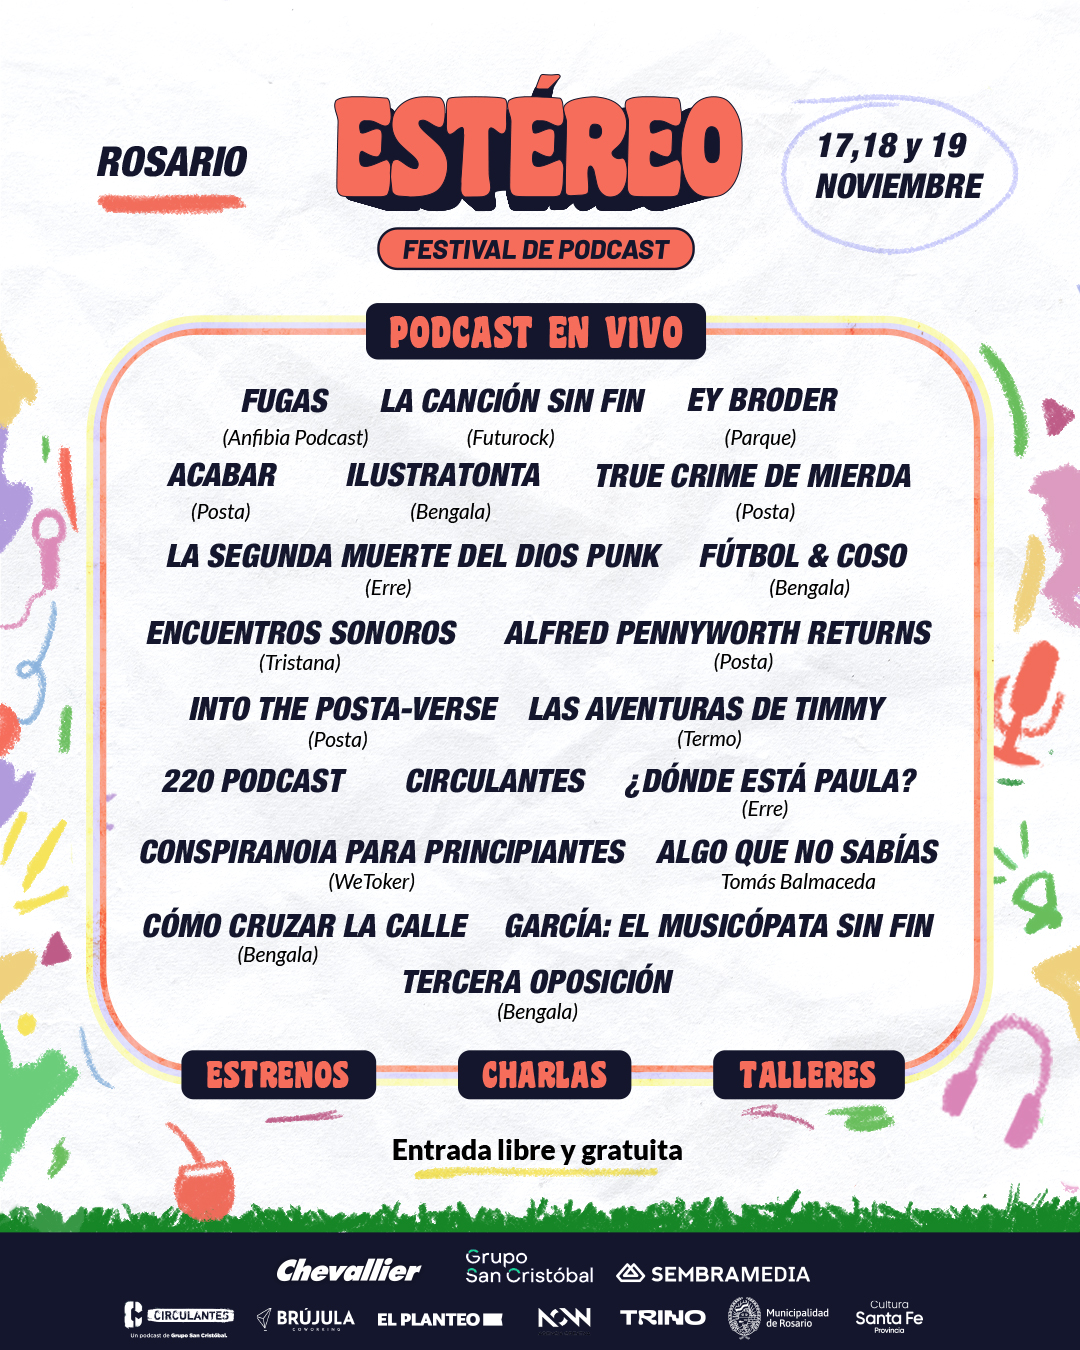
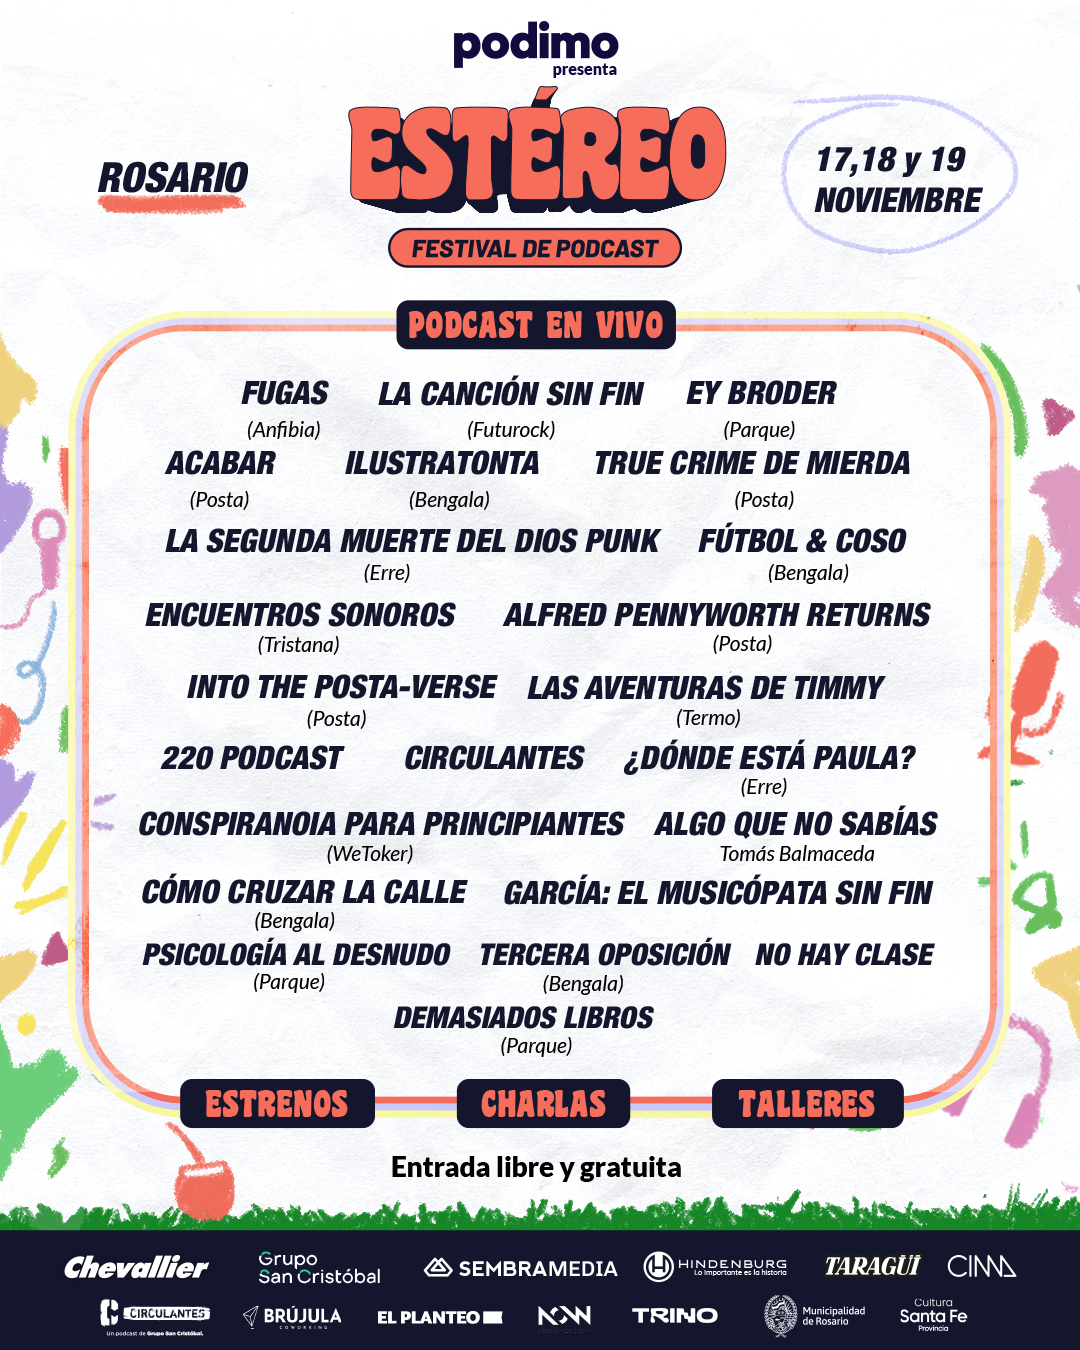
podimo included

diff --git a/index.html b/index.html
@@ -66,10 +66,14 @@
     </div>
   </nav>
   <main>
-    <section id="main-img" class="container-fluid pb-2 pb-md-0 text-center">
+    <section id="main-img" class="container-fluid pb-0 text-center">
       <div class="trazos row align-items-center pt-5 px">
         <div class="col d-none d-md-flex flex-column justify-content-around align-items-center">
+          <img class="img-fluid" id="main-section-podimo" src="./assets/podimo-presenta.png" alt="logo-podimo">
           <img class="img-fluid" id="main-section-logo" src="./assets/logo-estereo.png" alt="logo-stereo">
+          <div class="mt-3 d-md-block d-none">
+            <div class="h2 fw-bold secondary text-align-center"> 17 - 18 - 19 de Noviembre</div>
+          </div>
           <div class="mt-4">
             <a href="https://www.eventbrite.com/e/estereo-festival-de-podcast-1era-edicion-registration-452088006397"
               class="btn btn-lg bg-color4 text-light fw-bold" role="button">Quiero asistir</a>
@@ -78,18 +82,18 @@
           </div>
         </div>
         <div class="col">
-          <img class="img-fluid" src="./assets/pibito.png" alt="pibito">
           <div class="mt-3 d-md-none d-sm-block">
+            <img class="img-fluid" id="main-section-podimo" src="./assets/podimo-presenta.png" alt="logo-podimo">
+            <img class="img-fluid" id="main-section-logo" src="./assets/logo-estereo.png" alt="logo-stereo">
+            <div class="h2 fw-bold secondary text-align-center"> 17 - 18 - 19 de Noviembre</div>
+          </div>
+          <div class="my-3 d-md-none d-sm-block">
             <a href="https://www.eventbrite.com/e/estereo-festival-de-podcast-1era-edicion-registration-452088006397"
               class="btn btn-lg bg-color4 text-light fw-bold" role="button" target="_blank"
               rel="noopener noreferrer">Quiero asistir</a>
             <a class="btn bg-color3 text-light" role="button">Quiero participar</a>
           </div>
-          <div class="mt-3 d-md-none d-sm-block">
-            <div class="h2 fw-bold secondary text-align-center"> 17 - 18 - 19 <br>
-              <span> de Noviembre </span>
-            </div>
-          </div>
+          <img class="img-fluid" src="./assets/pibito.png" alt="pibito">
         </div>
       </div>
     </section>
@@ -97,9 +101,6 @@
       <div class="container pt-5 pb-2">
         <h2 class="fw-bold text-center mb-4 h1">Mirá la grilla completa</h2>
         <div class="d-md-flex justify-content-around gap-4">
-          <div class="card">
-            <img src="./assets/poster-horizontal.jpg" alt="" class="img-fluid">
-          </div>
           <div class="card mt-4 mt-md-0">
             <img src="./assets/grillacompleta.jpg" alt="" class="img-fluid" id="grilla-img">
           </div>
@@ -213,8 +214,12 @@
         </div>
       </div>
       <div class="row row-cols-2">
-        <div class="prev bg-color1 text-center"><i class="bi bi-arrow-left text-light"></i></div>
-        <div class="next bg-color1 text-center"><i class="bi bi-arrow-right text-light"></i></div>
+        <div class="prev bg-color1 text-center rounded-circle d-flex align-items-center justify-content-center shadow">
+          <i class="bi bi-arrow-left text-light"></i>
+        </div>
+        <div class="next bg-color1 text-center rounded-circle d-flex align-items-center justify-content-center shadow">
+          <i class="bi bi-arrow-right text-light"></i>
+        </div>
       </div>
     </section>
     <section id="festival">
@@ -437,20 +442,28 @@
     </div>
     <section id="partners">
       <div class="container py-5">
+        <h2 class="fw-bold text-center">Main Partner</h2>
+        <div class="row justify-content-around align-items-center">
+          <a href="https://podimo.com/es" target="_blank" rel="noopener noreferrer"><img
+              src="./assets/partners/podimo.png" alt="Podimo" class="img-fluid my-4 col-10 col-md-3"></a>
+        </div>
         <h2 class="fw-bold text-center">Partners</h2>
         <div class="row justify-content-around align-items-center">
           <a href="https://www.gruposancristobal.com.ar/" target="_blank" rel="noopener noreferrer"><img
-              src="./assets/partners/logo_grupo_sc.svg" alt="main-partner" class="img-fluid my-4 col-10 col-md-3"></a>
+              src="./assets/partners/logo_grupo_sc.svg" alt="Grupo San Cristobal"
+              class="img-fluid my-4 col-10 col-md-3"></a>
           <a href="https://www.rosario.gob.ar/inicio/" target="_blank" rel="noopener noreferrer"><img
-              src="./assets/partners/municipalidad.png" alt="main-partner" class="img-fluid my-4 col-10 col-md-3"></a>
+              src="./assets/partners/municipalidad.png" alt="Municipalidad de Rosario"
+              class="img-fluid my-4 col-10 col-md-3"></a>
           <a href="https://www.taragui.com/ar" target="_blank" rel="noopener noreferrer"><img
-              src="./assets/partners/taragui.png" alt="main-partner" class="img-fluid my-4 col-10 col-md-3"></a>
+              src="./assets/partners/taragui.png" alt="Taragüí" class="img-fluid my-4 col-10 col-md-3"></a>
           <a href="https://www.sembramedia.org/" target="_blank" rel="noopener noreferrer"><img
-              src="./assets/partners/sembramedia.png" alt="main-partner" class="img-fluid my-4 col-10 col-md-3"></a>
+              src="./assets/partners/sembramedia.png" alt="Sembra Media" class="img-fluid my-4 col-10 col-md-3"></a>
           <a href="https://www.nuevachevallier.com/" target="_blank" rel="noopener noreferrer"><img
-              src="./assets/partners/chevallier-logo.png" alt="main-partner" class="img-fluid my-4 col-10 col-md-3"></a>
+              src="./assets/partners/chevallier-logo.png" alt="Nueva Chevallier"
+              class="img-fluid my-4 col-10 col-md-3"></a>
           <a href="https://hindenburg.com/" target="_blank" rel="noopener noreferrer"><img
-              src="./assets/partners/hindenburg.svg" alt="main-partner" class="img-fluid my-4 col-10 col-md-3"></a>
+              src="./assets/partners/hindenburg.svg" alt="Hindenburg" class="img-fluid my-4 col-10 col-md-3"></a>
         </div>
         <div class="row justify-content-around align-items-center px-5" id="medias">
           <div class="col-7 col-md-4 text-center">

diff --git a/css/style.css b/css/style.css
@@ -20,8 +20,29 @@ body {
   color: #F66D5B;
 }
 
+#grilla {
+  position: relative;
+}
+
 .prev, .next {
+  position: absolute;
   font-size: 1.2rem;
+  bottom: 15%;
+  width: 50px;
+  height: 50px;
+}
+
+.prev {
+  left: 5%;
+}
+
+.next {
+  right: 5%;
+}
+
+.prev:hover, .next:hover {
+  cursor: pointer;
+  opacity: 50%;
 }
 
 footer .nav-item i {
@@ -47,7 +68,15 @@ main, footer {
 }
 
 img#main-section-logo {
-  max-width: 30vw;
+  max-width: 40vw;
+  margin-bottom: 2vw;
+}
+
+img#main-section-podimo {
+  margin: auto;
+  display: block;
+  max-width: 13vw;
+  margin-bottom: 1vw;
 }
 
 #festival-img {
@@ -164,6 +193,14 @@ footer img {
     max-height: 3vw;
   }
 
+  img#main-section-logo {
+    margin-bottom: 0;
+  }
+
+  img#main-section-podimo {
+    max-width: 6vw;
+  }
+
   .partners-logo {
     max-width: 22vw;
     height: auto;
@@ -218,6 +255,18 @@ footer img {
 
   #grilla img {
     max-height: 10vw;
+  }
+
+  .prev, .next {
+    bottom: 13%;
+  }
+
+  .prev {
+    left: 1%;
+  }
+
+  .next {
+    right: 1%;
   }
 
   footer div.rounded {
